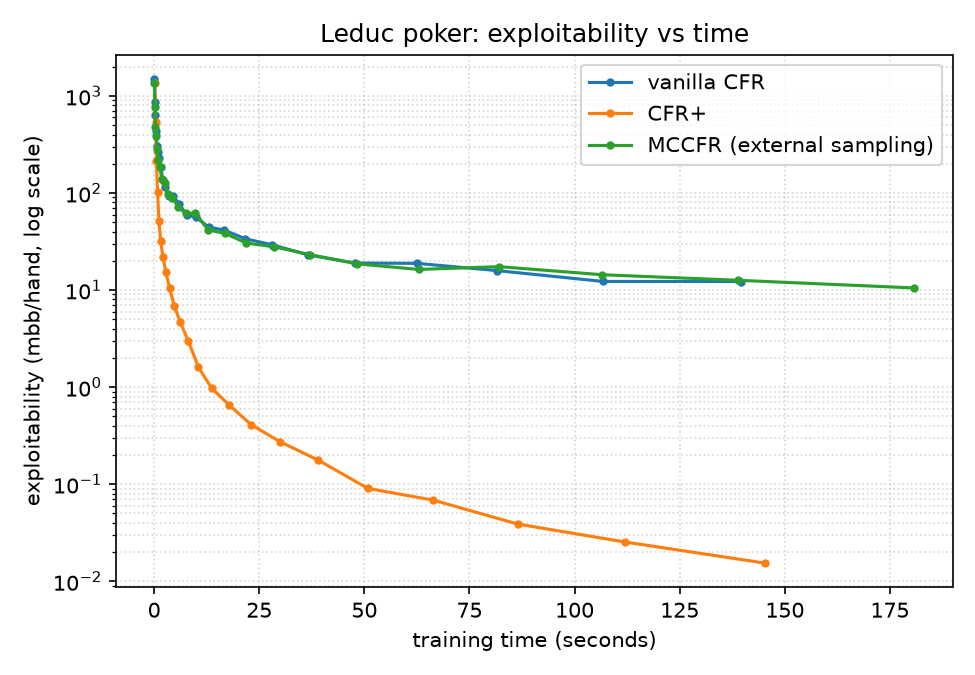
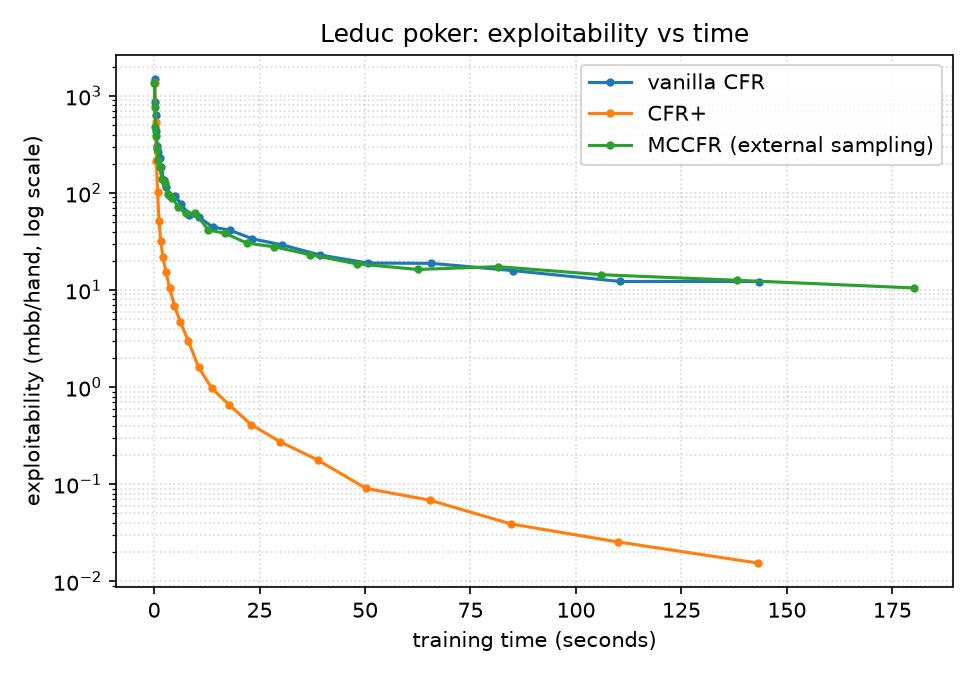
P8.2: README quickstart, status, links; regenerate kuhn/leduc convergence csv/png

diff --git a/README.md b/README.md
@@ -8,26 +8,22 @@ that shifts from equilibrium play toward exploiting a weak opponent.
 
 All results are verified against known values (e.g. Kuhn poker game value = -1/18 for player 1).
 
-**Status:** Phase 1 (Kuhn + vanilla CFR) in progress; vanilla CFR on Kuhn works. See [PROGRESS.md](PROGRESS.md).
+**Status:** Phases 1–7 done (solvers, evaluation, bots, adaptive agent, terminal play). Phase 8 (writeup) in progress. See [PROGRESS.md](PROGRESS.md).
 
 ## Quickstart
 Requires Python 3.11.
 
 ```bash
-pip install numpy pytest matplotlib
-pytest -q
+pip install -r requirements.txt
+pytest -q                          # full test suite (under ~10 s)
+python scripts/run_kuhn_cfr.py     # vanilla CFR on Kuhn, 100k iters -> analysis/kuhn_cfr.csv
+python -m play.cli --game kuhn --seed 1 --hands 5   # play the bot in the terminal
 ```
 
-Run vanilla CFR on Kuhn (100k iterations, writes `analysis/kuhn_cfr.csv`, prints game value):
-
-```bash
-python scripts/run_kuhn_cfr.py
-```
-
-Other solver, evaluation, and play commands will be added here as each phase lands.
+Every result in the table below has its reproduce command next to it. Full command list and per-result notes: [analysis/results.md](analysis/results.md). Math notes and Q&As per phase: [LEARNING.md](LEARNING.md).
 
 ## Kuhn + CFR
-Kuhn poker: 3 cards, ante 1, one bet of 1. Vanilla CFR keeps cumulative regret per information set, plays by regret matching, and the reach-weighted *average* strategy converges to Nash. The result lies in the known equilibrium family (P1 bets J with $\alpha\in[0,1/3]$, K with $3\alpha$; our run gives $\alpha\approx0.21$). Math in [LEARNING.md](LEARNING.md).
+Kuhn poker: 3 cards, ante 1, one bet of 1. Vanilla CFR keeps cumulative regret per information set, plays by regret matching, and the reach-weighted *average* strategy converges to Nash. The result lies in the known equilibrium family (P1 bets J with $\alpha\in[0,1/3]$, K with $3\alpha$; our run gives $\alpha\approx0.21$, the `p_bet` of infoset `0` in [analysis/kuhn_cfr.csv](analysis/kuhn_cfr.csv)). Math in [LEARNING.md](LEARNING.md).
 
 ## Games
 | Game  | Deck | Rounds | Notes |
@@ -54,7 +50,7 @@ python -m play.cli --game leduc --seed 1 --hands 5
 You face the CFR+ equilibrium bot (average strategy from `analysis/strategies/`). Seats alternate each hand. Kuhn moves: `p` pass/check/fold, `b` bet/call. Leduc moves: `c` check/call, `r` raise. After each bot move the CLI prints the bot's action probabilities at that infoset, plus a running chip total.
 
 ## Results
-Every number below will link to the exact command that reproduces it (see `analysis/results.md`).
+Each row lists the command that reproduces it; the source csv is in `analysis/`. Details in [analysis/results.md](analysis/results.md).
 
 <!-- RESULTS_TABLE_START -->
 | Metric | Value | Command |
@@ -63,7 +59,7 @@ Every number below will link to the exact command that reproduces it (see `analy
 | Kuhn exploitability after 100000 iters (vanilla CFR) | 6.76e-04 (log-log slope -0.544, T>=10k) | `python scripts/kuhn_convergence.py --solver cfr && python analysis/plot_convergence.py` |
 | Kuhn exploitability after 100000 iters (CFR+) | 2.14e-06 (log-log slope -0.849, T>=10k) | `python scripts/kuhn_convergence.py --solver cfr_plus && python analysis/plot_convergence.py` |
 | CFR+ speedup vs vanilla (iters to expl < 0.001) | 331x (43080 vs 130 iters) | `python scripts/kuhn_convergence.py --solver cfr && python scripts/kuhn_convergence.py --solver cfr_plus` |
-| Leduc exploitability (mbb/hand) at 140 s: CFR / CFR+ / MCCFR | 12.25 / 0.0254 / 12.61 | `python scripts/leduc_benchmark.py && python analysis/plot_leduc.py` |
+| Leduc exploitability (mbb/hand) at 140 s: CFR / CFR+ / MCCFR | 12.26 / 0.0254 / 12.61 | `python scripts/leduc_benchmark.py && python analysis/plot_leduc.py` |
 | Exploiter (exact BR) vs bots, mbb/hand ±95% CI, 300k hands each | call +1470±7, raise +2377±14, tight +697±11, random +2367±18 (equilibrium: +636±7, +327±19, +61±11, +716±13) | `python scripts/bot_matches.py --pairs 150000 --seed 0` |
 | Adaptive agent vs bots, mbb/hand ±95% CI, 40k hands each (cap 1.0 / cap 0.2) | call +1315±19 / +810±20, raise +2194±40 / +632±51, tight +638±36 / +152±32, random +1715±40 / +881±36; vs equilibrium -1±27 / +7±24 | `python scripts/adaptive_matches.py --pairs 20000 --seed 0` |
 <!-- RESULTS_TABLE_END -->
@@ -78,4 +74,4 @@ Kuhn exploitability vs iterations (log-log), vanilla CFR and CFR+.
 Leduc exploitability (mbb/hand) vs wall-clock time (log scale): vanilla CFR, CFR+, external-sampling MCCFR.
 
 ## What I learned
-Detailed notes per phase in [LEARNING.md](LEARNING.md). Summary will be filled in as phases complete.
+Detailed notes per phase in [LEARNING.md](LEARNING.md). Raw results and reproduce commands in [analysis/results.md](analysis/results.md).

diff --git a/PROGRESS.md b/PROGRESS.md
@@ -41,3 +41,4 @@
 - P7.3 README play section + LEARNING.md Phase 7 entry (3 Q&As).
 - P7.4 VERIFY: scripts/verify_phase7.py PASS (40 scripted hands/game, both seats: 94 Kuhn + 199 Leduc shown probs == stored avg strategy to 3dp, no unseen-infoset fallback; every hand result == independent payoff, running total correct; 500-hand rerun PASS; mutation tests (uniform probs / negated utility) caught); fixed Leduc rank labels QKA->JQK to match games/leduc.py; pytest -q 83 passed. **Phase 7 DONE.** Repro: python scripts/verify_phase7.py
 - P8.1 scripts/make_results_table.py builds README results table (between RESULTS_TABLE markers) from analysis/*.csv; idempotent; pytest -q 83 passed. Leduc row now csv-derived at 140 s: CFR+ 0.0254 / MCCFR 12.61 mbb (old README 0.0154 / 10.51 were not the 140 s rows; corrected). Repro: python scripts/make_results_table.py
+- P8.2 README polish: quickstart (pip -r requirements, pytest, run_kuhn_cfr, play.cli), status updated, links to LEARNING.md + analysis/results.md. Ran all README commands: kuhn/leduc/bot/adaptive/run_kuhn_cfr OK (leduc csv rerun -> regenerated table, 12.26); play.cli interactive, starts/prompts (EOF on closed stdin traceback). pytest -q 83 passed (50 s, over 10 s budget, pre-existing).

diff --git a/PLAN.md b/PLAN.md
@@ -60,6 +60,6 @@ Long runs go in scripts/ and write to analysis/*.csv. Tests stay under ~10 s tot
 
 ## Phase 8: README + writeup
 - [x] P8.1 | sonnet | scripts/make_results_table.py: builds README results table from analysis/*.csv (every row includes its reproduce command) and inserts it between markers in README.md | done when: script runs, README table filled from csvs
-- [ ] P8.2 | haiku | README polish: real quickstart commands, embed both charts, link LEARNING.md and analysis/results.md | done when: every command in README runs
+- [x] P8.2 | haiku | README polish: real quickstart commands, embed both charts, link LEARNING.md and analysis/results.md | done when: every command in README runs
 - [ ] P8.3 | sonnet | analysis/writeup.md: 1-2 page writeup (method, results table, limits; no "solved poker" claims) plus a short summary using only numbers from csvs | done when: file exists, every number traceable to a csv
 - [ ] P8.4 | opus | VERIFY Phase 8: rerun fast commands from analysis/results.md, confirm numbers match README/writeup, grep for overclaims; mark Phase 8 DONE in PROGRESS.md | done when: checks pass and PROGRESS.md says Phase 8 DONE
